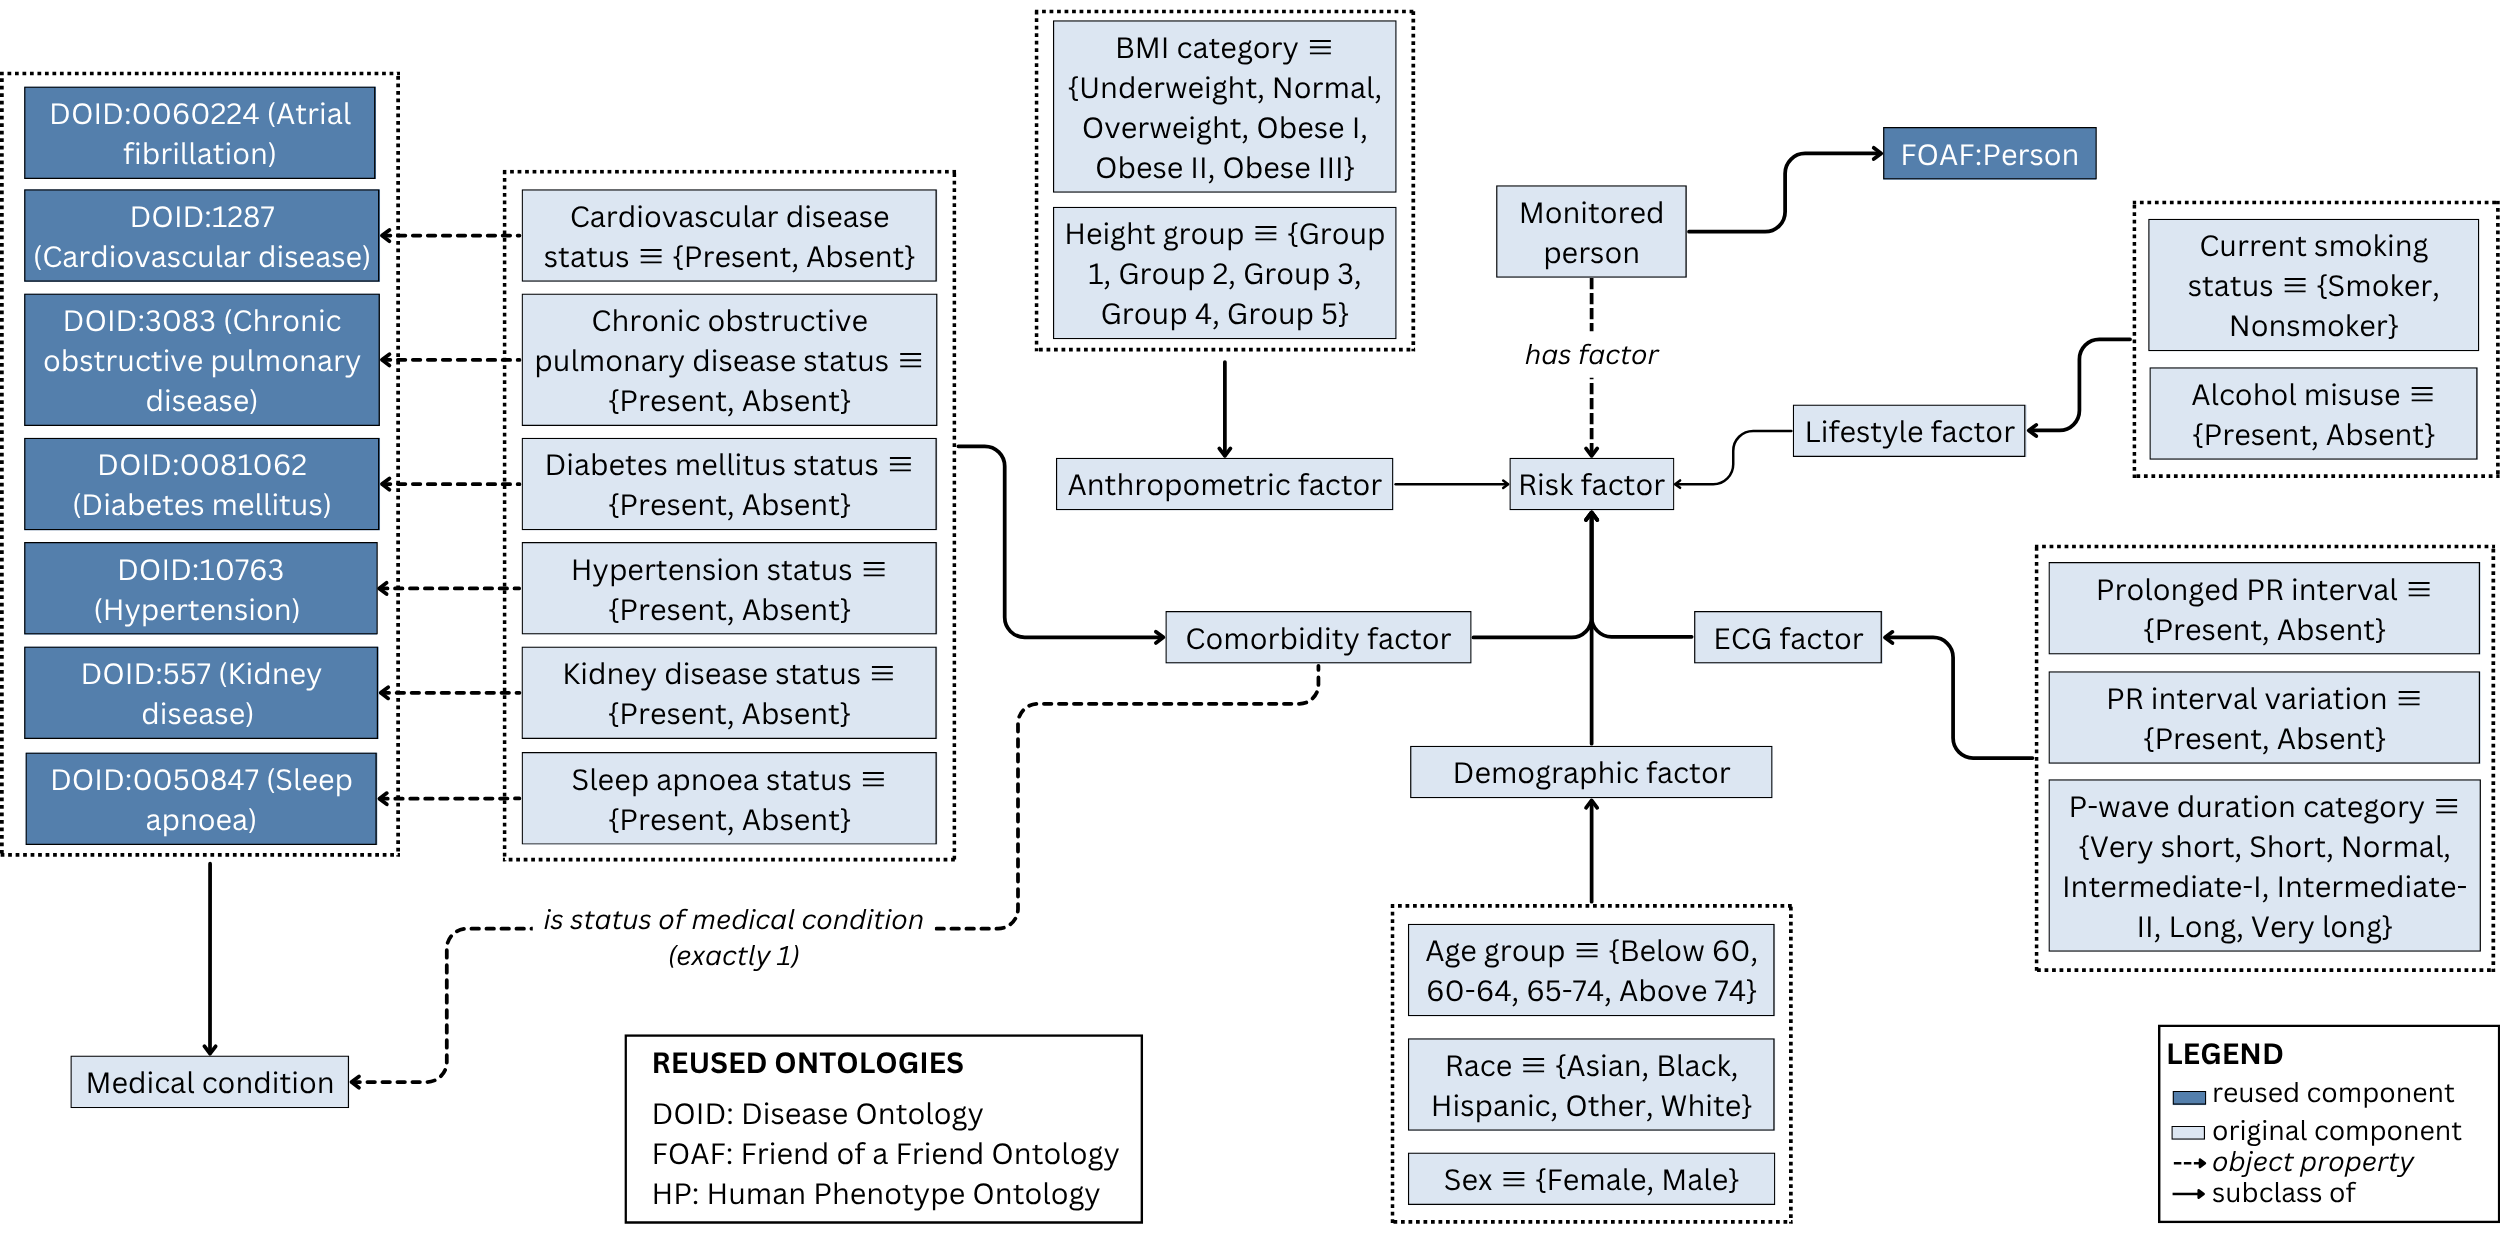
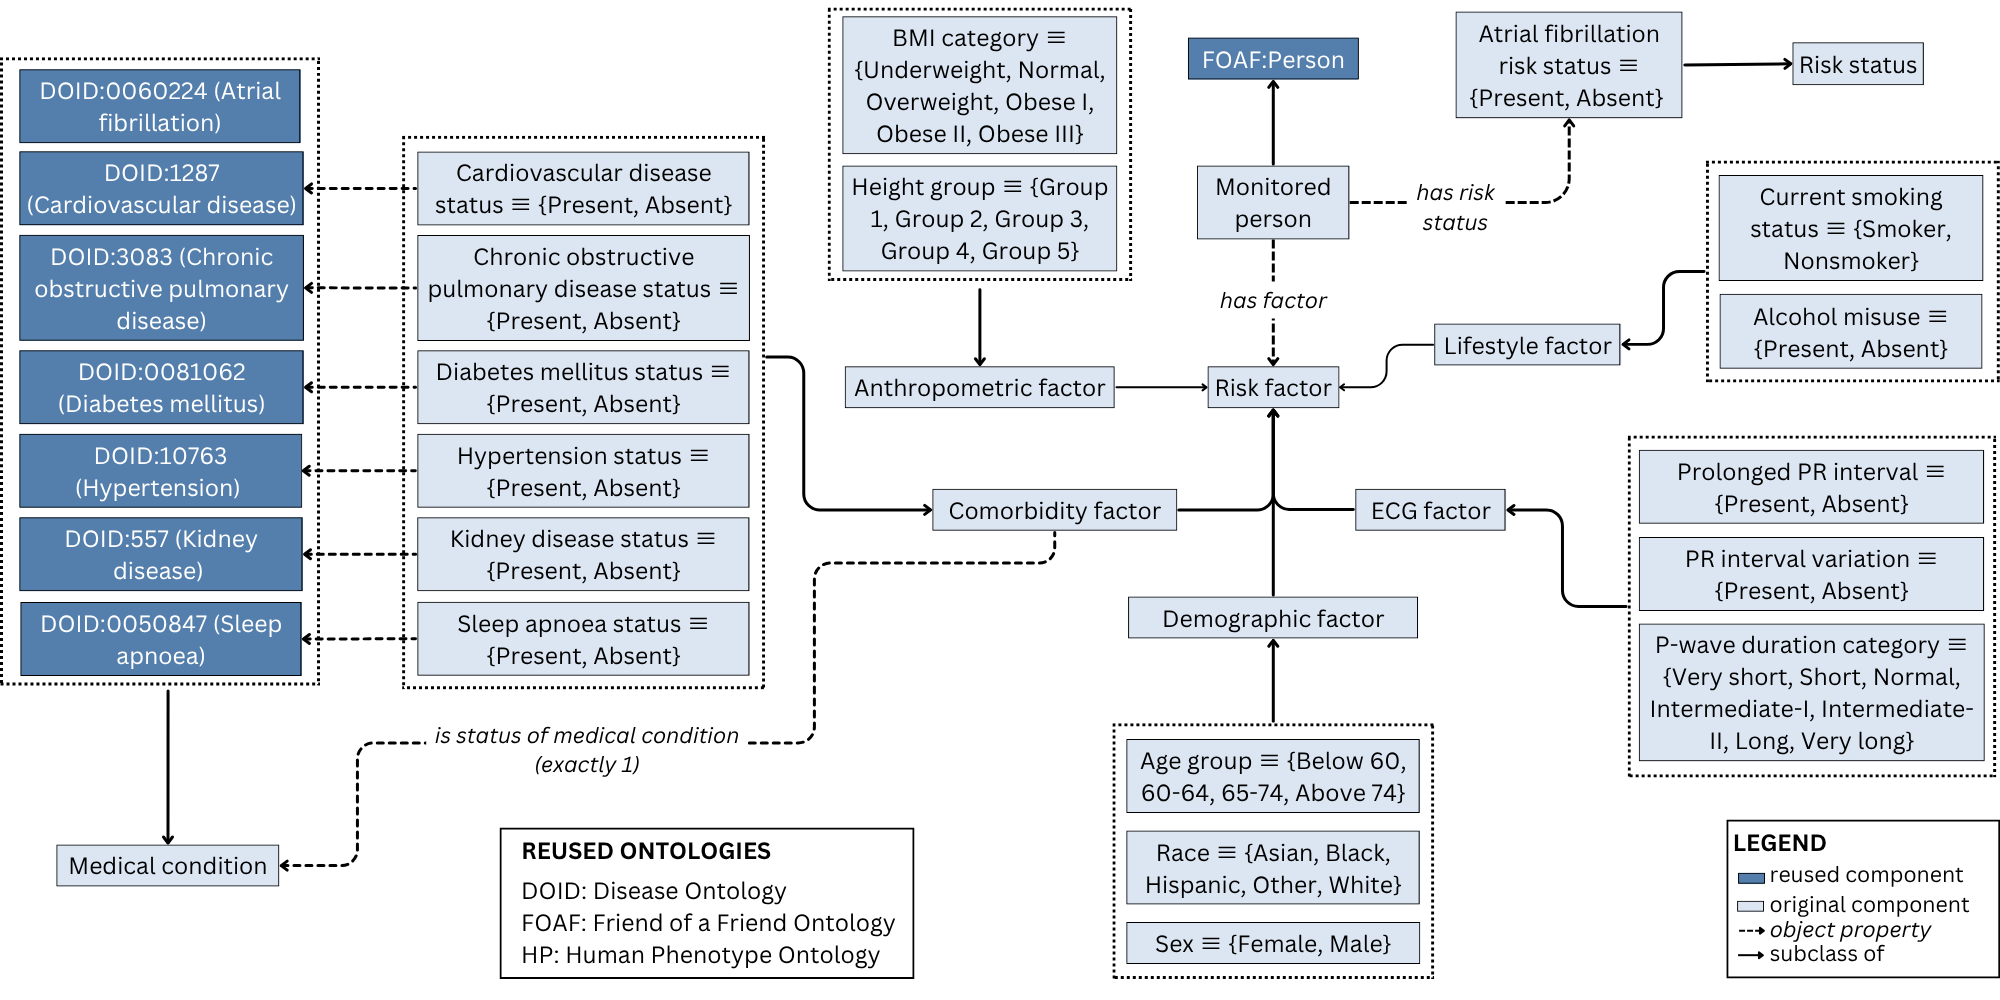
Update README file

diff --git a/README.md b/README.md
@@ -4,24 +4,16 @@
 <https://purl.org/afmo>
 
 ## About
-The Atrial Fibrillation Monitoring Ontology (AFMO) is a component of a hybrid AI architecture for personal health monitoring using heterogeneous and multimodal health data. It is designed to formally
-represent health data and expert knowledge for atrial fibrillation (AF) monitoring.
-
-The AFMO has 11 top-level classes which can broadly be grouped into sensors and sensor data, personal information, and medical knowledge. 
-
-![Top level classes of the AFMO](/images/top_level.png)
-*Top level classes of the AFMO.*
-
-An important aspect of the AFMO is its ability to support AF risk prediction. The ontolgy represents an individual's risk factors. It also represents the relationship between each risk factor and the risk of AF, supported by evidence which may be published in a scientific publication.
-
-![Representation of AF risk factors.](/images/risk_factors.png)
-*Representation of AF risk factors in the AFMO.*
-
-![Representation of risk relationships.](/images/risk_relationship.png)
-*Representation of a risk relationship (i.e risk, risk factor, and supporting evidence) in the AFMO.*
+The Atrial Fibrillation Monitoring Ontology (AFMO) is a component of a hybrid AI architecture for personal health monitoring using heterogeneous and multimodal health data. It is designed to formally represent health data and expert knowledge for atrial fibrillation (AF) monitoring. This involves three key functionalities: AF detection, AF risk prediction, and decision support.
 
 ## Documentation
 Coming soon.
+
+## Ontology visualisations
+The AFMO has 12 top-level classes which can broadly be grouped into sensors and sensor data, personal information, and medical knowledge. 
+
+![Top level classes of the AFMO](/images/top_level.png)
+*Top level classes of the AFMO.*
 
 ## Authorship and attributions
 ### Author
